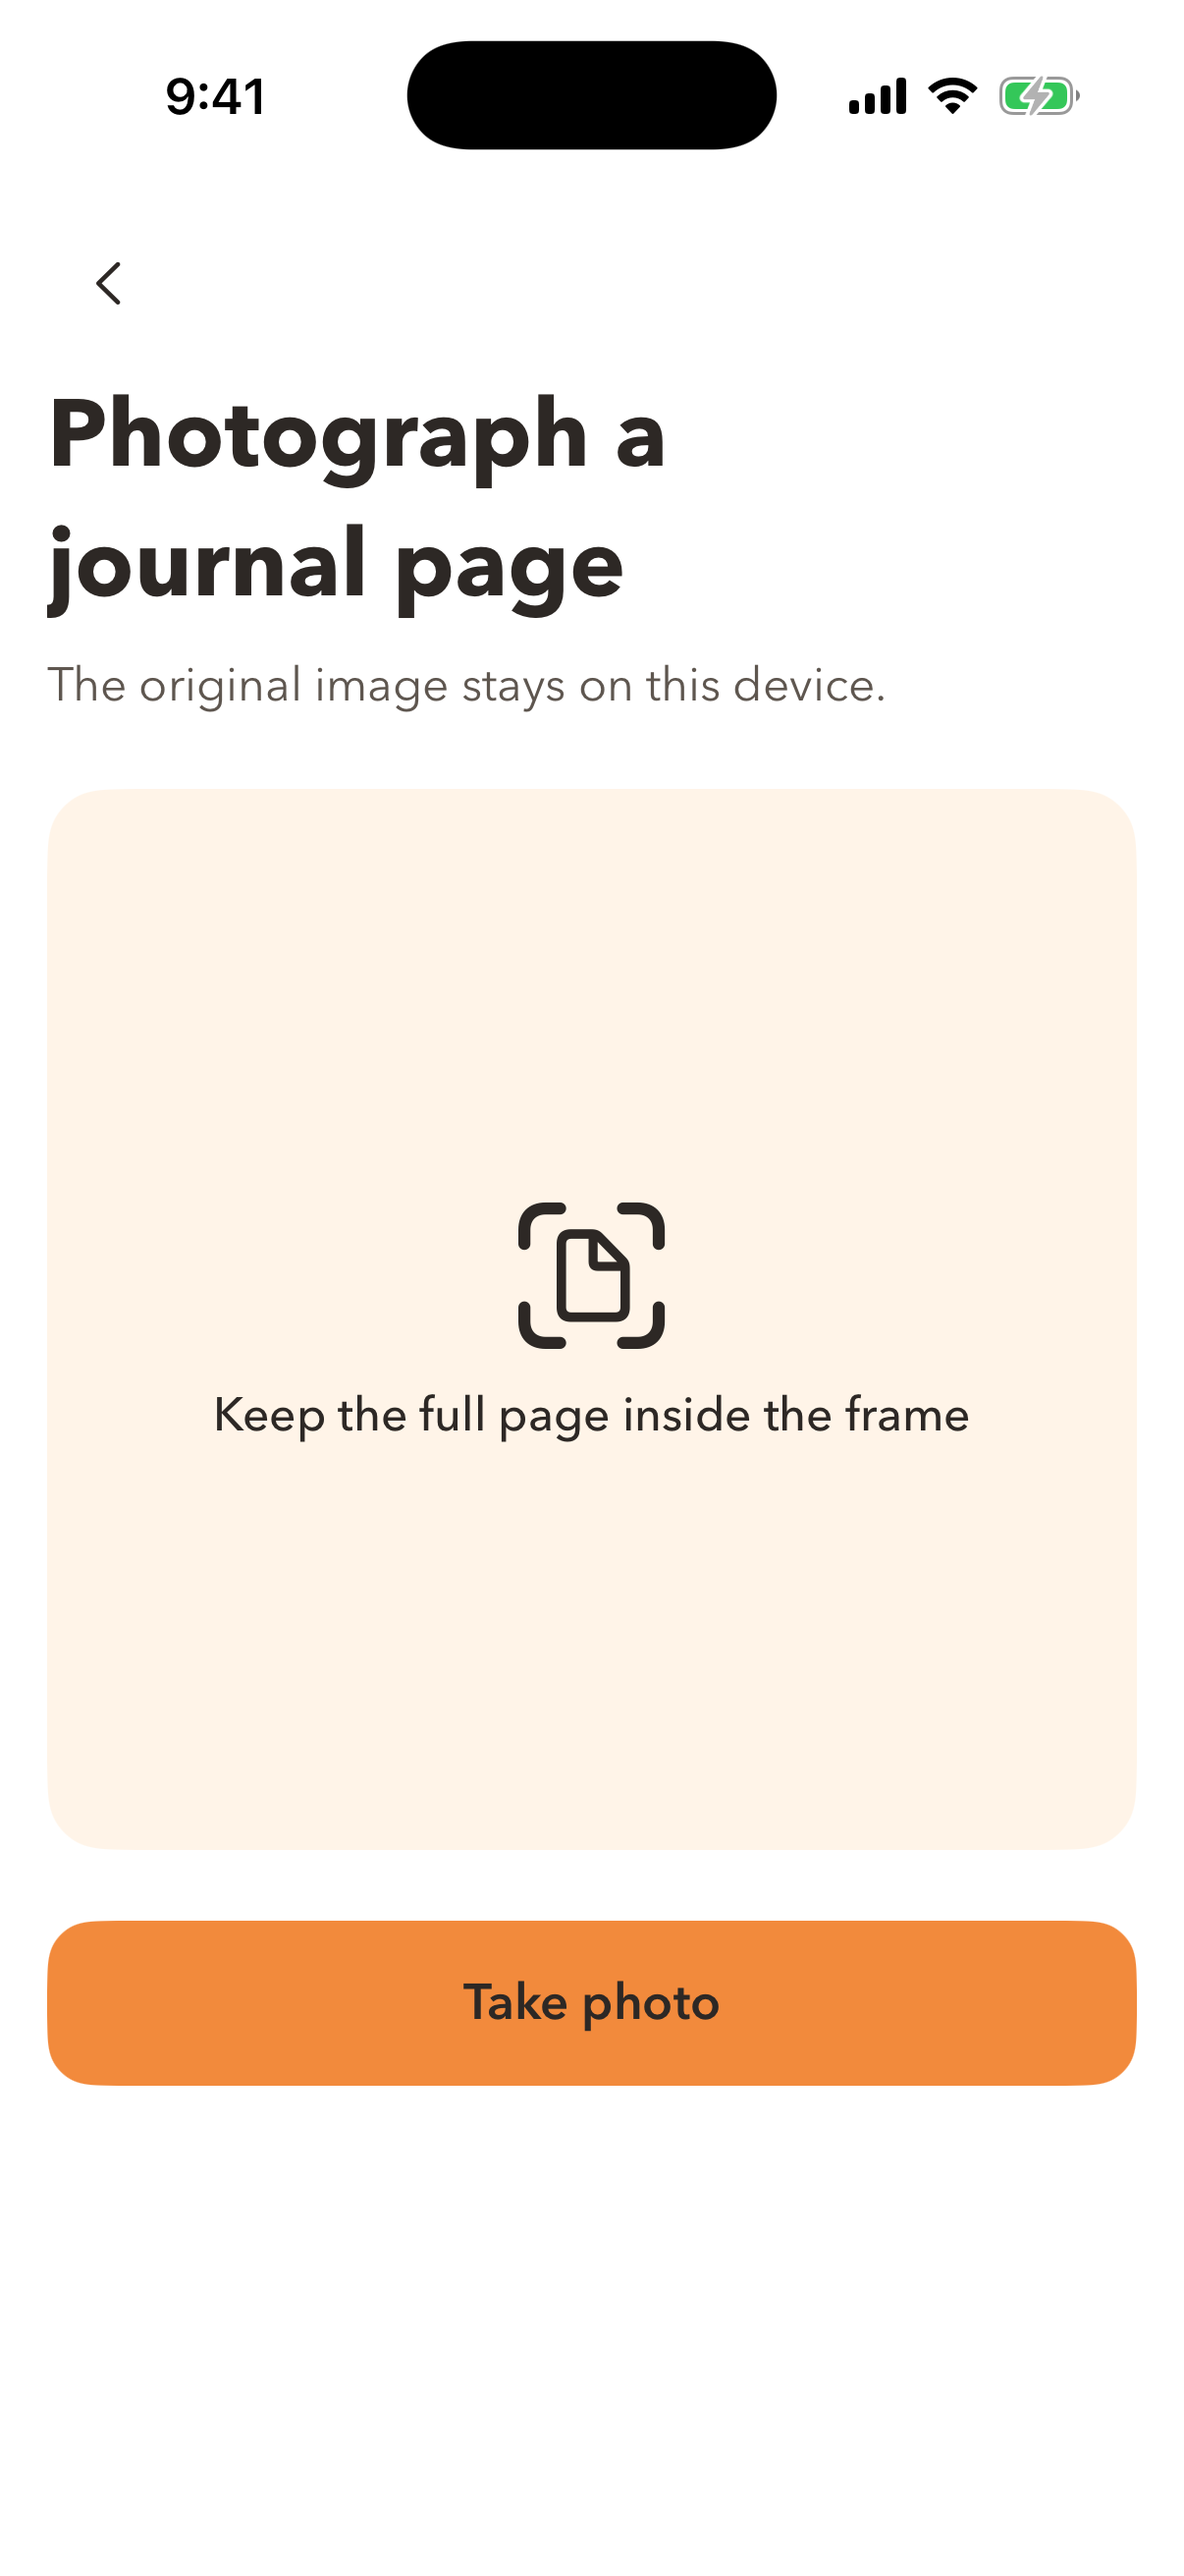
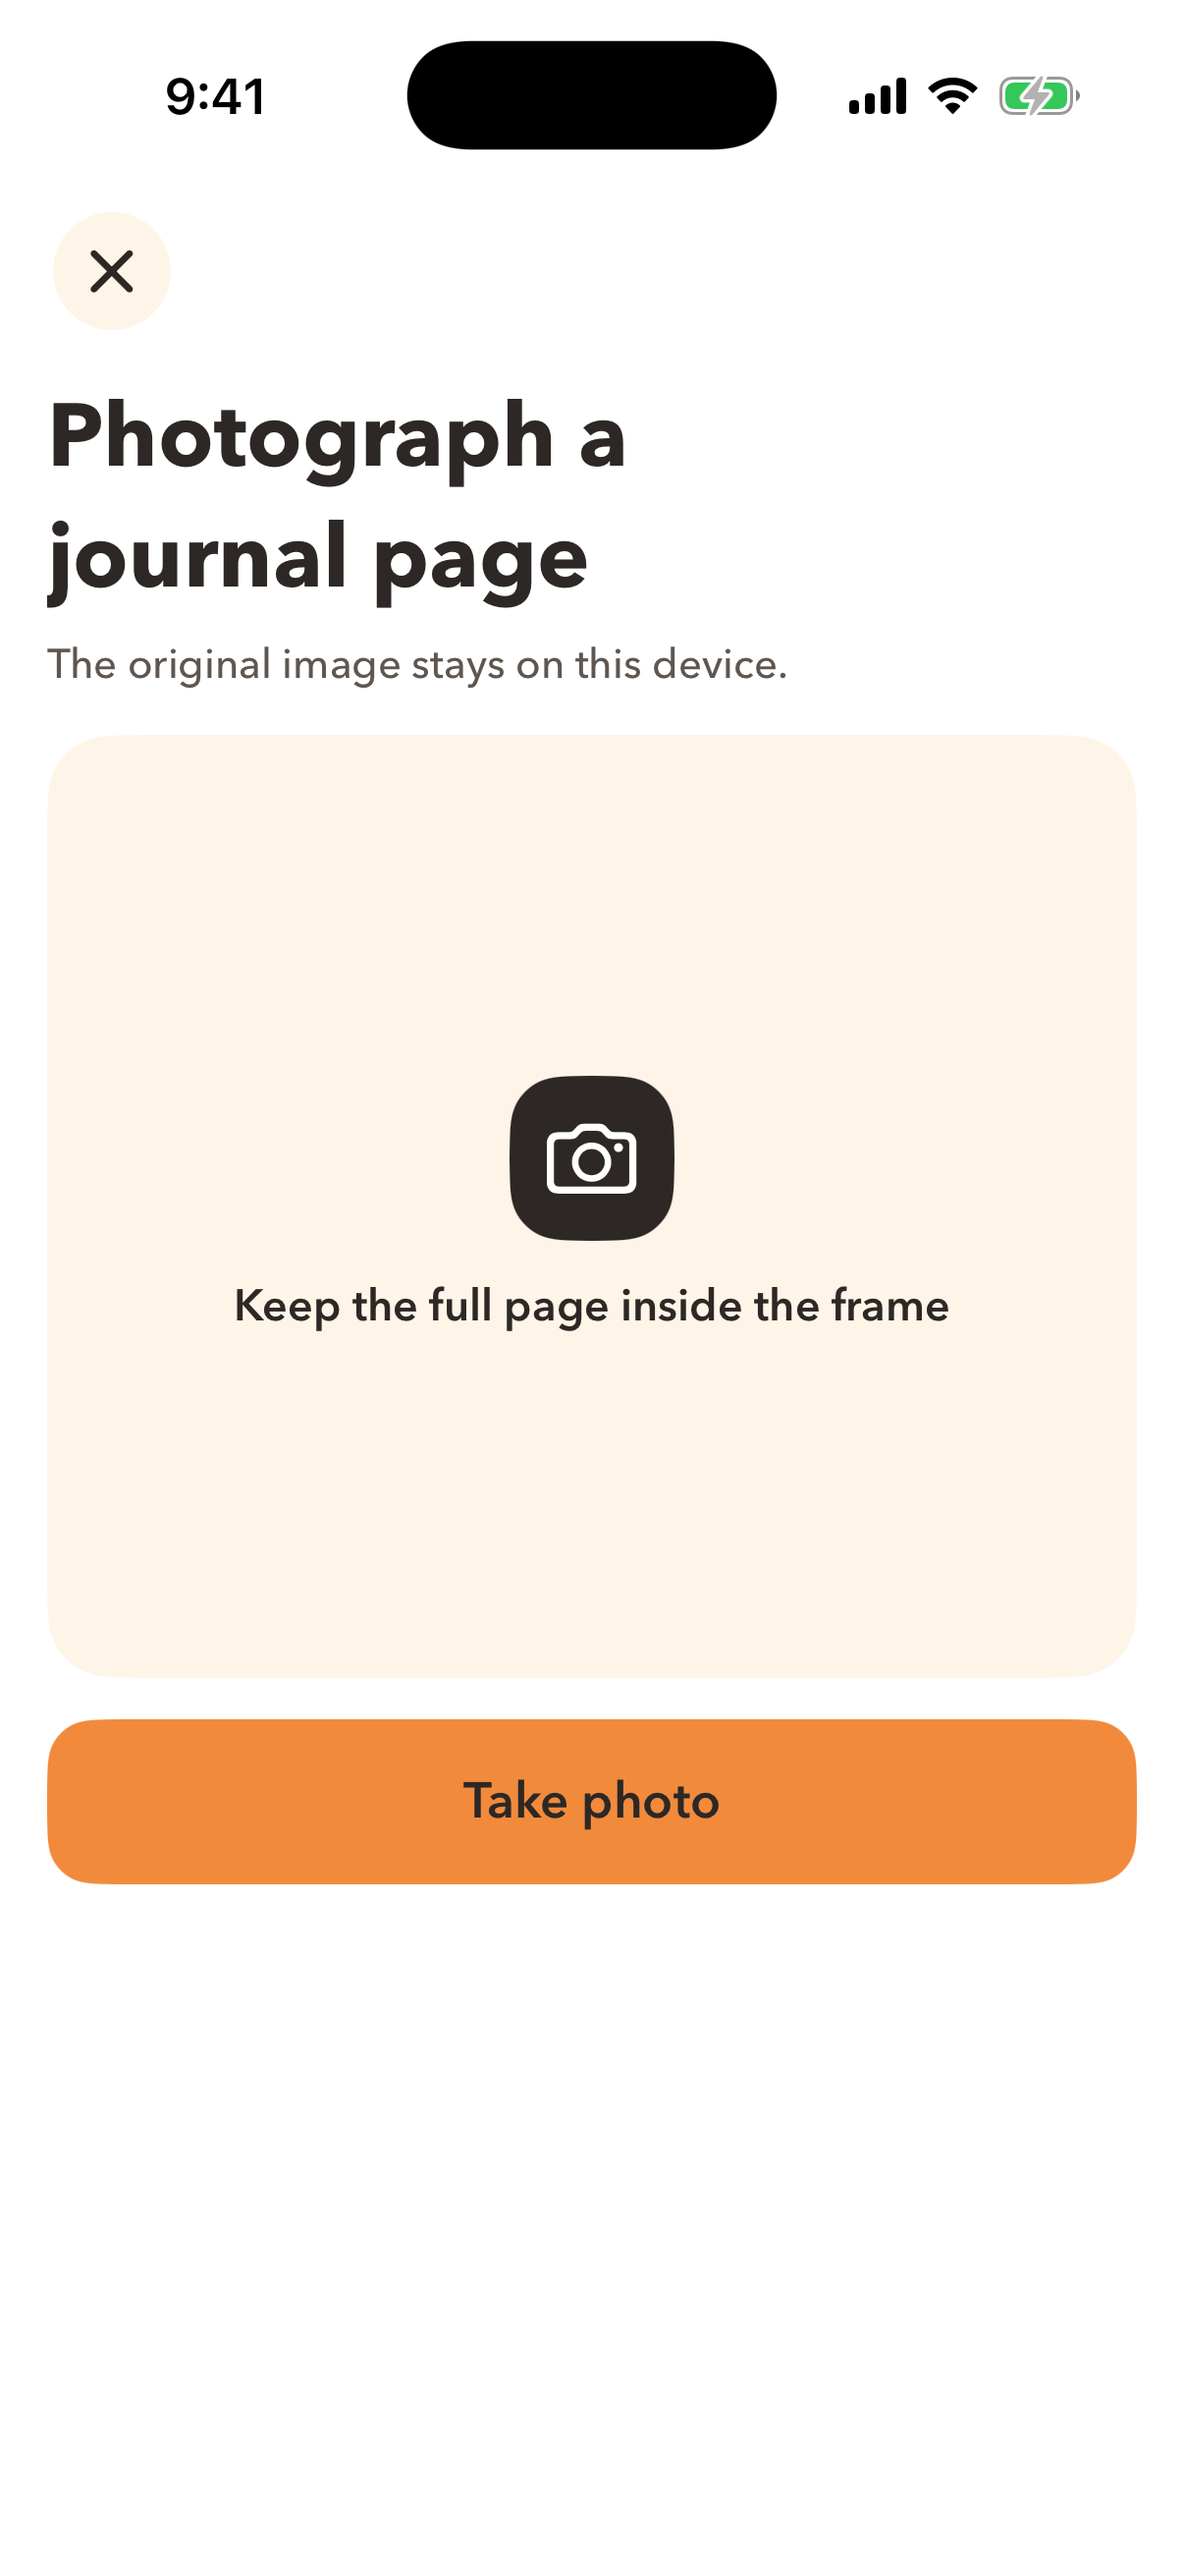
Front end v2: photo journal screen

diff --git a/apps/candycorn-ios/CandyCorn/Features/Journal/PhotoJournalView.swift b/apps/candycorn-ios/CandyCorn/Features/Journal/PhotoJournalView.swift
@@ -33,10 +33,12 @@ struct PhotoJournalView: View {
     }
 
     var body: some View {
-        ScreenLayout(
+        V2Screen(
             title: phase == .saved ? "Photo saved" : "Photograph a journal page",
             subtitle: "The original image stays on this device.",
             backAction: navigation.backAction(for: .journalPhoto),
+            backLabel: "Close",
+            backIcon: .close,
             bottomInset: DesignTokens.Spacing.section
         ) {
             content
@@ -100,20 +102,21 @@ struct PhotoJournalView: View {
             Image(uiImage: preview)
                 .resizable()
                 .scaledToFit()
-                .clipShape(RoundedRectangle(cornerRadius: DesignTokens.cardRadius, style: .continuous))
+                .clipShape(RoundedRectangle(cornerRadius: DesignTokens.v2CardRadius, style: .continuous))
+                .overlay(RoundedRectangle(cornerRadius: DesignTokens.v2CardRadius, style: .continuous).stroke(DesignTokens.hairline, lineWidth: 1))
                 .accessibilityLabel("Original journal photo")
         } else {
             ZStack {
-                RoundedRectangle(cornerRadius: DesignTokens.cardRadius, style: .continuous)
+                RoundedRectangle(cornerRadius: DesignTokens.v2CardRadius, style: .continuous)
                     .fill(DesignTokens.surfaceWarm)
-                VStack(spacing: DesignTokens.Spacing.small) {
-                    Image(systemName: "doc.text.viewfinder").font(.system(size: 52))
+                VStack(spacing: DesignTokens.Spacing.compact) {
+                    IconTile(icon: .camera, size: 56, dark: true)
                     Text(phase == .saved ? "Original photo saved" : "Keep the full page inside the frame")
-                        .font(TypeScale.bodyMedium)
+                        .font(TypeScale.rowTitleCompact)
+                        .foregroundStyle(DesignTokens.cocoa)
                 }
-                .foregroundStyle(DesignTokens.cocoa)
             }
-            .frame(height: 360)
+            .frame(height: 320)
             .accessibilityLabel(phase == .saved ? "Original journal photo saved" : "Camera frame for a journal page")
         }
     }
@@ -148,47 +151,47 @@ struct PhotoJournalView: View {
     private func extractedRegion(
         _ extracted: (artifact: AIArtifact, result: VisionReadResult)
     ) -> some View {
-        VStack(alignment: .leading, spacing: DesignTokens.Spacing.compact) {
-            ProvenanceLine(provenance: Provenance(
-                voice: .candyCorn,
-                label: "Candy Corn extracted this",
-                detail: "\(extracted.artifact.provider), \(extracted.artifact.model)",
-                occurredAt: extracted.artifact.createdAt,
-                sourceRoute: .journalDetail
-            ))
-            Text(extracted.result.text)
-                .font(TypeScale.body)
-                .foregroundStyle(DesignTokens.cocoa)
-                .fixedSize(horizontal: false, vertical: true)
-            if !extracted.result.uncertainSpans.isEmpty {
-                Text("Check uncertain text: \(extracted.result.uncertainSpans.prefix(8).joined(separator: ", "))")
-                    .font(TypeScale.label)
-                    .foregroundStyle(DesignTokens.yellowText)
+        V2Card {
+            VStack(alignment: .leading, spacing: DesignTokens.Spacing.compact) {
+                HStack(spacing: DesignTokens.Spacing.compact) {
+                    IconTile(icon: .sparkles, size: 34)
+                    Text("Extracted text")
+                        .font(TypeScale.cardTitle)
+                        .foregroundStyle(DesignTokens.cocoa)
+                }
+                Text(extracted.result.text)
+                    .font(TypeScale.body)
+                    .foregroundStyle(DesignTokens.cocoa)
                     .fixedSize(horizontal: false, vertical: true)
+                if !extracted.result.uncertainSpans.isEmpty {
+                    Text("Check uncertain text: \(extracted.result.uncertainSpans.prefix(8).joined(separator: ", "))")
+                        .font(TypeScale.meta)
+                        .foregroundStyle(DesignTokens.yellowText)
+                        .fixedSize(horizontal: false, vertical: true)
+                }
+                ProvenanceStack(provenance: Provenance(
+                    voice: .candyCorn,
+                    label: "Candy Corn extracted this",
+                    detail: "\(extracted.artifact.provider), \(extracted.artifact.model)",
+                    occurredAt: extracted.artifact.createdAt,
+                    sourceRoute: .journalDetail
+                ))
             }
         }
-        .padding(DesignTokens.Spacing.base)
-        .background(DesignTokens.surfaceWarm)
-        .clipShape(RoundedRectangle(cornerRadius: DesignTokens.cardRadius, style: .continuous))
     }
 
     @ViewBuilder
     private var extractionControls: some View {
         if canExtract, let entry = savedEntry, let attachmentID = entry.originalAttachmentID {
-            Button {
-                prepareExtraction(journalID: entry.id, attachmentID: attachmentID)
-            } label: {
-                HStack(spacing: DesignTokens.Spacing.small) {
-                    KernelGlyph(voice: .candyCorn, height: 18)
-                    Text("Extract text")
-                    Spacer(minLength: 0)
-                }
+            let processing = state.aiProcessingState(for: .readPhoto(journalID: entry.id, attachmentID: attachmentID)) == .processing
+            V2GroupCard(title: "Organize") {
+                V2ListRow(
+                    icon: .sparkles,
+                    title: processing ? "Working" : "Extract text",
+                    detail: "Read the page into editable text. The photo stays.",
+                    disabled: processing
+                ) { prepareExtraction(journalID: entry.id, attachmentID: attachmentID) }
             }
-            .buttonStyle(SecondaryButtonStyle())
-            .disabled(state.aiProcessingState(for: .readPhoto(
-                journalID: entry.id,
-                attachmentID: attachmentID
-            )) == .processing)
         } else if state.aiMode == .off {
             StatusNotice(
                 title: "Organizing is off",
